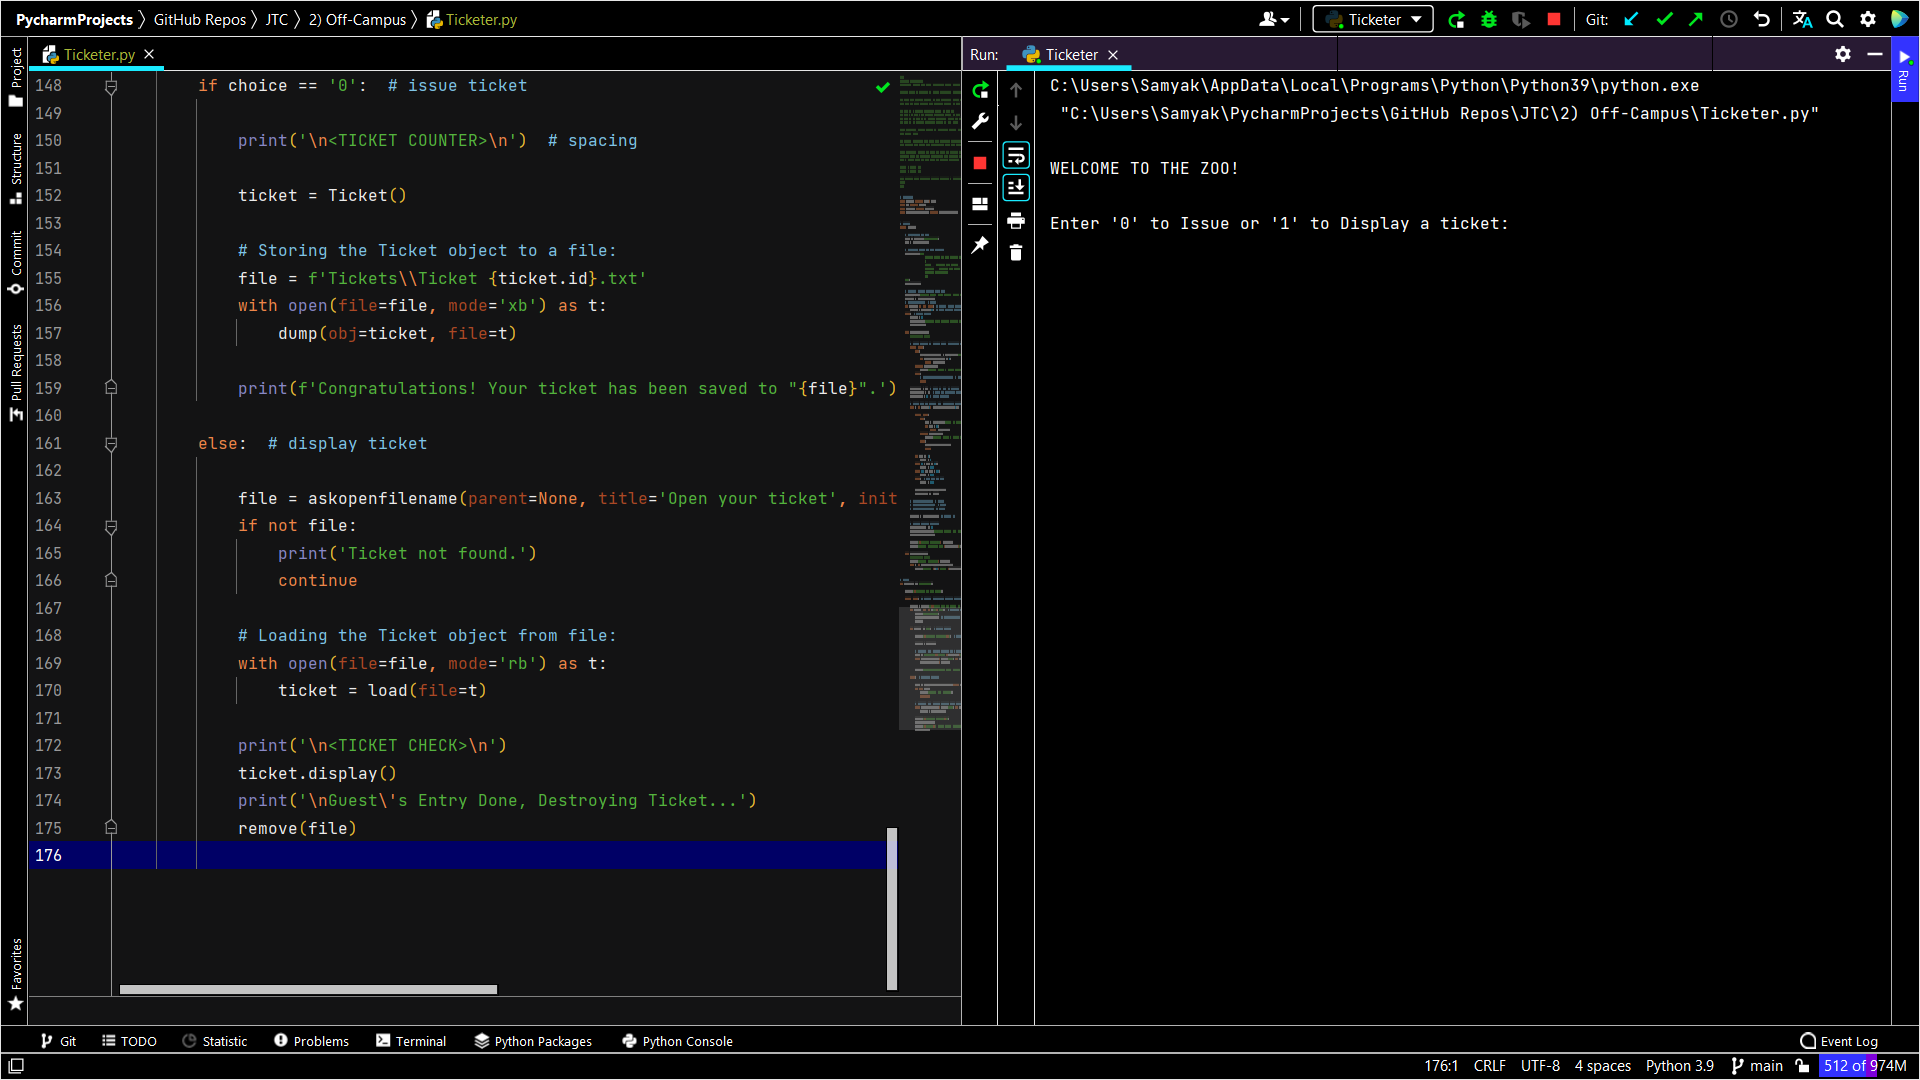
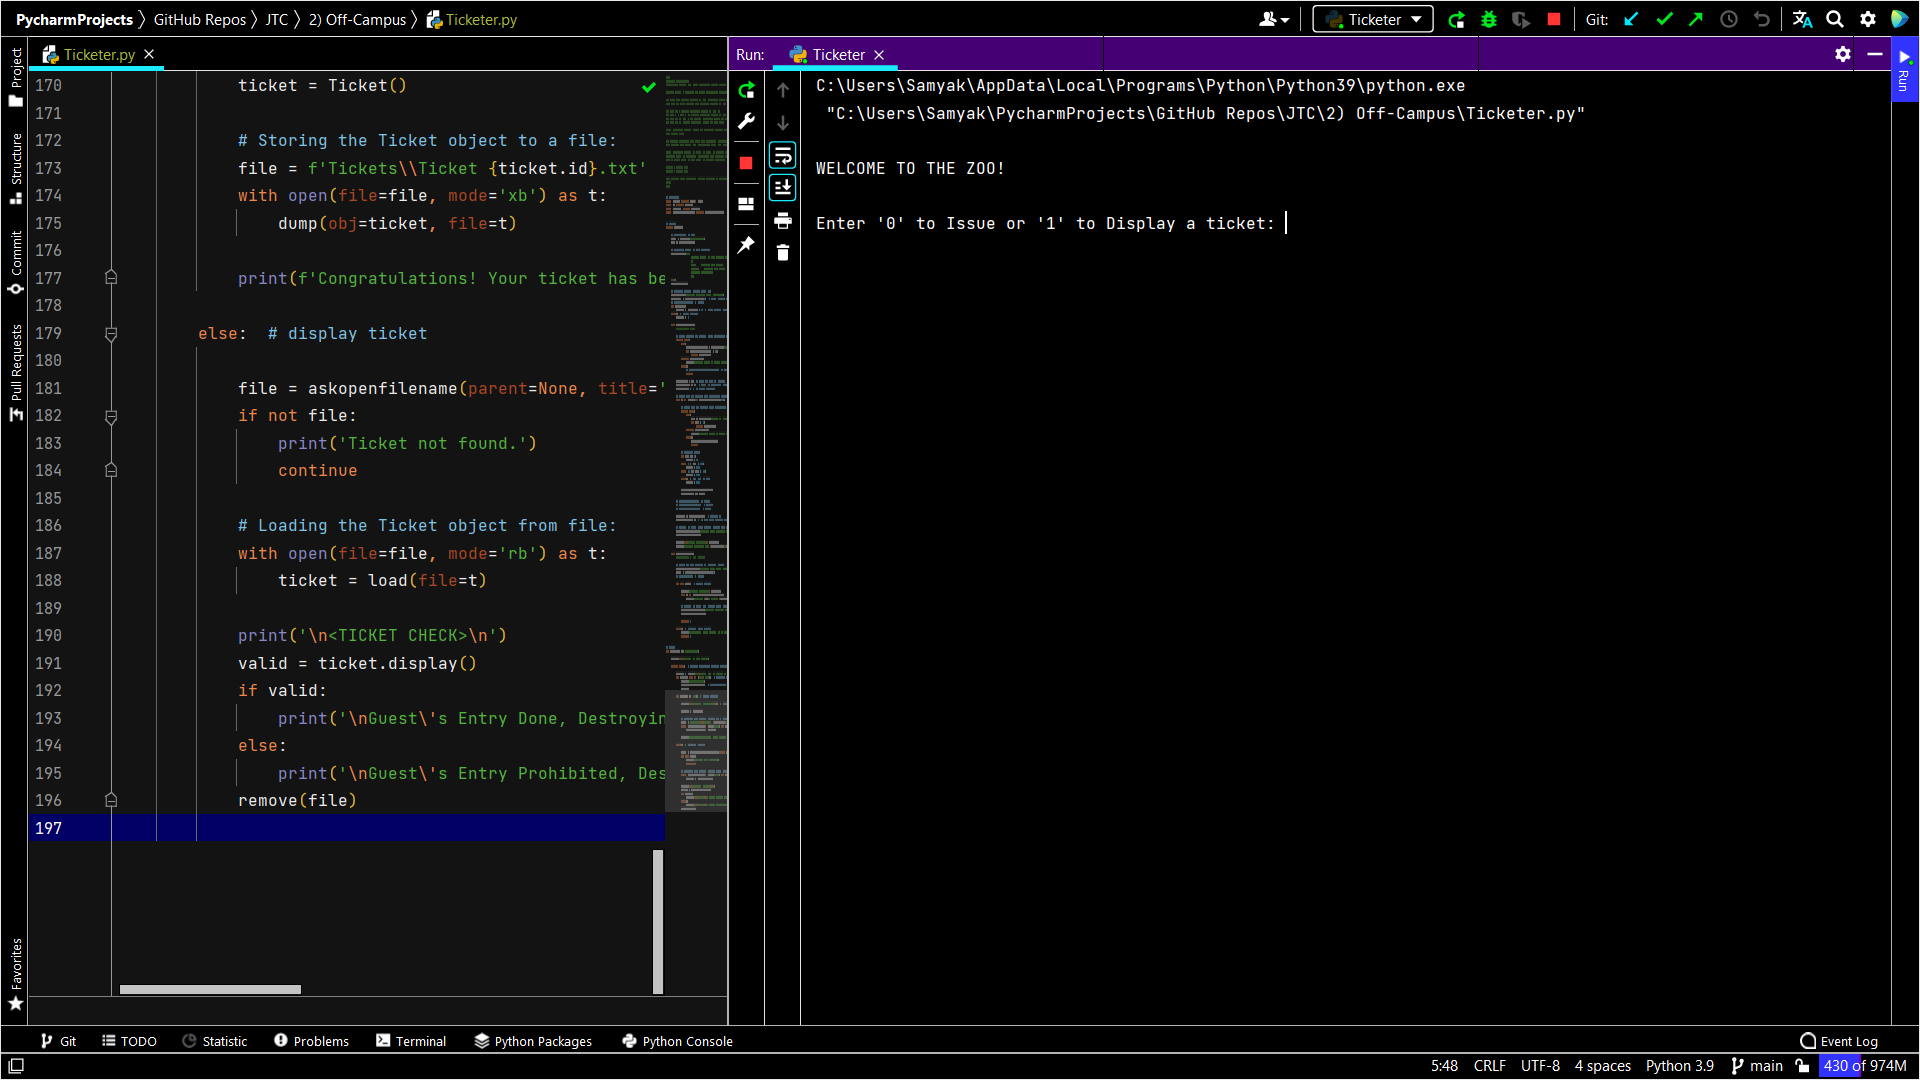
feature 2.1

diff --git a/Ticketer.py b/Ticketer.py
@@ -46,28 +46,26 @@ class Ticket:
 
     # Creating table if not exists:
     cur.execute('''
-                    CREATE TABLE IF NOT EXISTS "Config" 
+                    CREATE TABLE IF NOT EXISTS "Records" 
                     (
-                    "Key"	INTEGER NOT NULL,
-                    "Value"	INTEGER NOT NULL,
-                    PRIMARY KEY("Key")
+                    "id"	INTEGER NOT NULL,
+                    "used"	INTEGER NOT NULL,
+                    PRIMARY KEY("id")
                     );
     ''')
     conn.commit()
 
     # Getting ticket number from DB:
-    cur.execute('SELECT Value FROM Config WHERE Key = 0')
-    fetched = cur.fetchone()
-    # print(fetched)  # debug
-    if fetched is not None:  # number entry found
-        number = fetched[0]  # next ticket number to be
+    cur.execute('SELECT max(id) FROM Records')
+    last_num = cur.fetchone()[0]  # last ticket number
+    # print(last_num)  # debug
+    if last_num:
+        number = last_num + 1  # next ticket number to be
     else:  # first ticket
         number = 1
-        cur.execute('INSERT INTO Config VALUES (?, ?)', (0, number))  # Key : Value :: 0 : Next ticket number to be
-        conn.commit()
 
     def __init__(self):
-        """Feature 1."""
+        """Feature 1"""
 
         # Input number of guests with exception handling:
         while True:
@@ -88,6 +86,7 @@ class Ticket:
         # Input age of guests and calculate charges:
         for i in range(1, self.no_of_guests+1):
 
+            # Input age of guests with exception handling:
             while True:
                 try:
                     age = int(input(f'Age of Guest {i}: ').strip())
@@ -99,6 +98,7 @@ class Ticket:
                     self.ages.append(age)
                     break
 
+            # Pricing Calc:
             if age <= 2:
                 price = 0
             elif 2 < age < 18:
@@ -116,20 +116,38 @@ class Ticket:
         # print(self.total)  # debug
 
         self.id = Ticket.number  # ticket id
+        Ticket.number += 1  # inc next ticket number to be
 
-        # Update ticket number:
-        Ticket.number += 1
-        Ticket.cur.execute('UPDATE Config SET Value = ? WHERE Key = ?', (Ticket.number, 0))
+        # Update DB with next ticket number and Insert current ticket info:
+        Ticket.cur.execute('INSERT INTO Records VALUES (?, ?)', (self.id, 0))  # id : used :: Ticket.id : It's usage info (0 / 1)
         Ticket.conn.commit()
 
         print('\nTicket Number:', self.id)
         print(f'Total Charges: INR {self.total}')
 
     def display(self):
-        """Feature 2."""
-        print('Ticket Number:', self.id)
-        for i in range(self.no_of_guests):
-            print(f'Guest {i+1} (age: {self.ages[i]})')
+        """Feature 2 and 2.1"""
+
+        # Check if the ticket is already used:
+        Ticket.cur.execute('SELECT used FROM Records WHERE id = ?', (self.id,))
+        used = Ticket.cur.fetchone()[0]
+        # print(used)  # debug
+
+        if not used:  # valid ticket
+
+            print('Ticket Number:', self.id)
+            for i in range(self.no_of_guests):
+                print(f'Guest {i+1} (age: {self.ages[i]})')
+
+            # Update DB with the ticket used info:
+            Ticket.cur.execute('UPDATE Records SET used = ? WHERE id = ?', (1, self.id))
+            Ticket.conn.commit()
+
+            return 1
+
+        else:  # already used ticket
+            print('WARNING!! This ticket is a copy of an already used ticket.')
+            return 0
 
 
 # Main:
@@ -170,6 +188,9 @@ if __name__ == '__main__':
                 ticket = load(file=t)
 
             print('\n<TICKET CHECK>\n')
-            ticket.display()
-            print('\nGuest\'s Entry Done, Destroying Ticket...')
+            valid = ticket.display()
+            if valid:
+                print('\nGuest\'s Entry Done, Destroying Ticket...')
+            else:
+                print('\nGuest\'s Entry Prohibited, Destroying Ticket...')
             remove(file)

diff --git a/README.md b/README.md
@@ -9,11 +9,11 @@ A basic ticketing software.
 
 <img src="Screenshots/1)%20Launch.png">
 
-2) Issuing Ticket
+2) Issuing Tickets
 
-<img src="Screenshots/2)%20Ticket%20Issued.png">
+<img src="Screenshots/2)%20Tickets%20Issued.png">
 
-3) Show your Ticket
+3) Checking Ticket
 
 <img src="Screenshots/3)%20Ticket%20Check.png">
 
@@ -21,15 +21,23 @@ A basic ticketing software.
 
 <img src="Screenshots/4)%20Entry%20Done.png">
 
-5) Program Exited
+5) Checking Ticket (Again)
 
-<img src="Screenshots/5)%20Exit.png">
+<img src="Screenshots/5)%20Ticket%20Check%20(again).png">
+
+6) Entry Prohibited
+
+<img src="Screenshots/6)%20Entry%20Prohibited.png">
+
+7) Program Exited
+
+<img src="Screenshots/7)%20Exit.png">
 
 
 ## [Code](Ticketer.py)
 
 
-### Features to implement in future:
+### Features to implement in the future:
 
-1) Ticket Verification (in case already used)
-2) Some more details on the ticket e.g. Date and Time
+1) Some more details on the ticket e.g. Date and Time.
+2) More coming...
